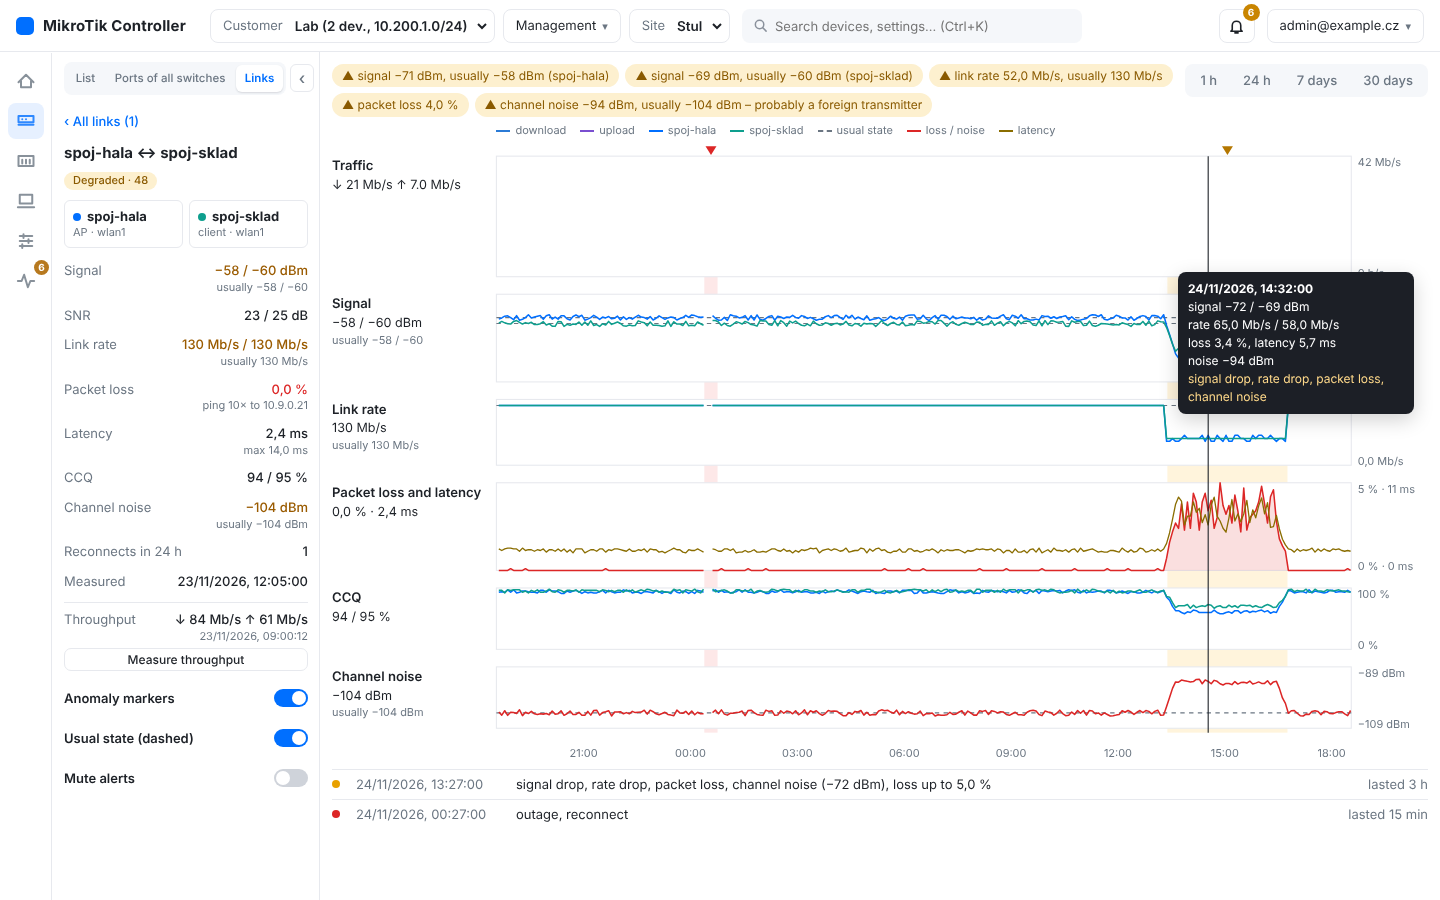
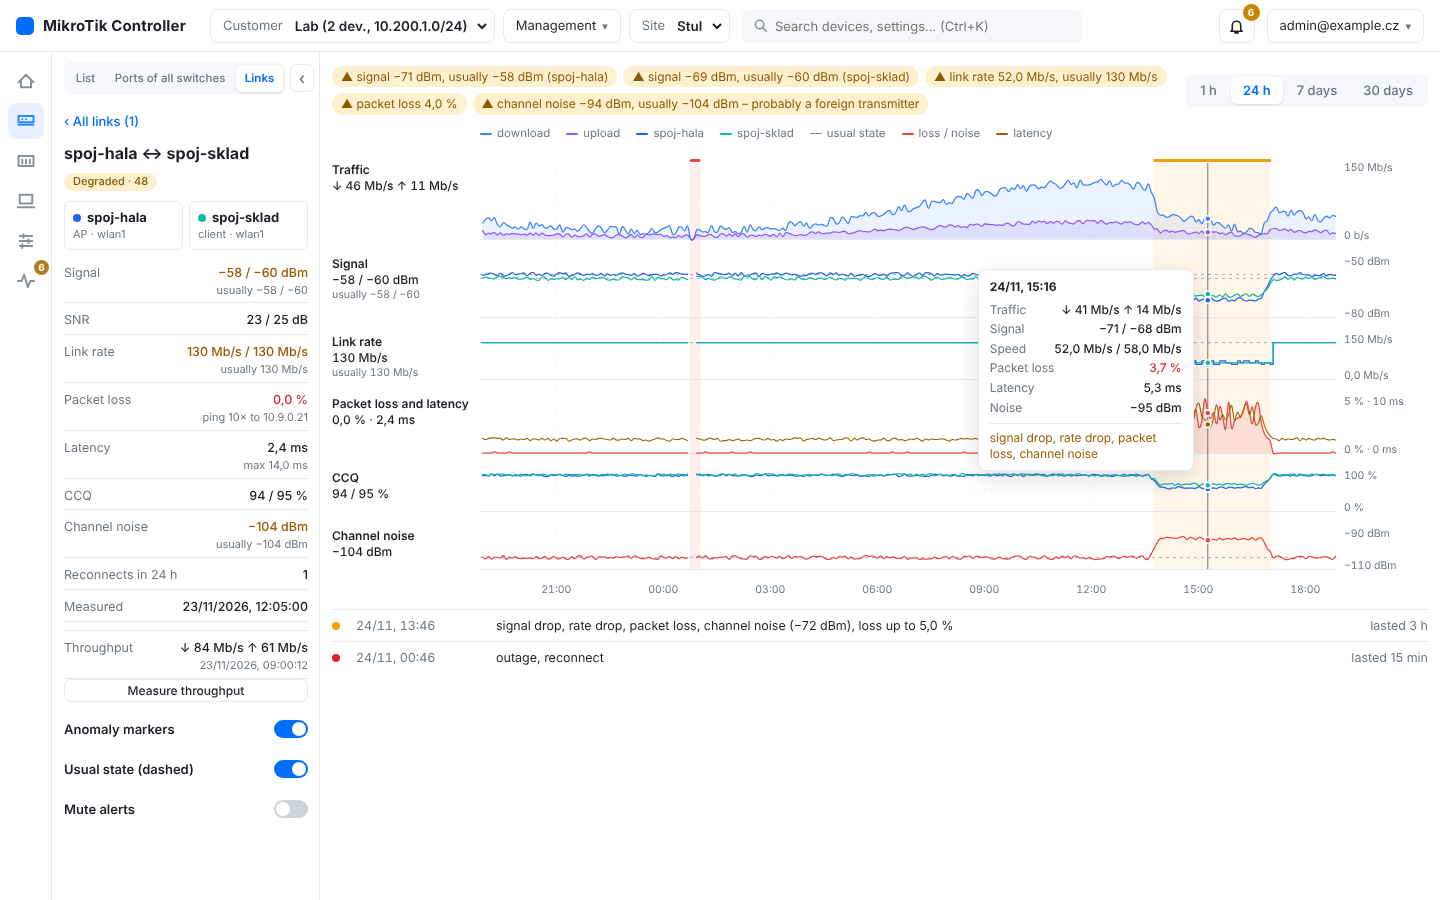
Karta spoje: jemnější graf
Graf se kreslí ve skutečných pixelech (písmo se nezvětšuje s oknem),
čáry jsou tenčí a vyhlazené, pásy nižší a bez rámečků s lehkými vodicími
linkami, rychlost spoje je schodová. Při najetí se na křivkách ukážou
body a přehledná tabulka hodnot okamžiku včetně provozu. Kulatá maxima os,
kratší formát času, zvýrazněné zvolené období.

Claude-Session: https://claude.ai/code/session_01E2RYn2SpBuXroVWZS43SoD

diff --git a/src/mtcontroller/web/static/app.js b/src/mtcontroller/web/static/app.js
@@ -4304,7 +4304,7 @@ function renderLinks() {
   for (const w of d.why || []) chips.appendChild(el("span", "▲ " + wlWhy(w), "wl-chip " + (w.code === "down" || (w.code === "loss" && w.now >= 10) ? "bad" : "warn")));
   if (!(d.why || []).length && d.state === "ok") chips.appendChild(el("span", __("Spoj je ve svém normálu."), "muted"));
   for (const [h, t] of [[1, "1 h"], [24, "24 h"], [168, __("7 dní")], [720, __("30 dní")]]) {
-    const b = el("button", t, wl.hours === h ? "on" : ""); b.type = "button"; b.setAttribute("aria-pressed", String(wl.hours === h));
+    const b = el("button", t, wl.hours === h ? "active" : ""); b.type = "button"; b.setAttribute("aria-pressed", String(wl.hours === h));
     b.addEventListener("click", () => { wl.hours = h; loadLink(); }); seg.appendChild(b);
   }
   top.append(chips, seg); main.appendChild(top);
@@ -4320,7 +4320,7 @@ function renderLinks() {
     for (const e of eps.slice(0, 12)) {
       const r = el("div", null, "wl-ep"), bad = e.codes.includes("down") || (e.worst.loss || 0) >= 10;
       const mins = Math.round((new Date(e.to) - new Date(e.from)) / 60000) + Math.round(d.bucket / 60);
-      r.append(el("i", "", "wl-dot " + (bad ? "bad" : "warn")), el("span", new Date(e.from).toLocaleString(LOCALE), "muted wl-ep-t"),
+      r.append(el("i", "", "wl-dot " + (bad ? "bad" : "warn")), el("span", new Date(e.from).toLocaleString(LOCALE, { day: "numeric", month: "numeric", hour: "2-digit", minute: "2-digit" }), "muted wl-ep-t"),
                el("span", e.codes.map((c) => WL_CODE[c] || c).join(", ") + (e.worst.signal != null && e.codes.includes("signal") ? ` (${wlN(e.worst.signal, "dBm")})` : "") + (e.worst.loss ? `, ${__("ztráta až")} ${wlN(e.worst.loss, "%", 1)}` : "")),
                el("span", mins >= 120 ? __`trvalo ${Math.round(mins / 60)} h` : __`trvalo ${mins} min`, "muted"));
       list.appendChild(r);
@@ -4367,103 +4367,137 @@ function wlBw(side, d) {
   }
 }
 
-// graf spoje: pásy se společnou časovou osou; odchylky podbarvené přes všechny pásy
+// graf spoje: pásy se společnou časovou osou; odchylky podbarvené přes všechny pásy.
+// Kreslí se v pixelech skutečné šířky (písmo se nezvětšuje s oknem), křivky jsou vyhlazené.
+function wlSmooth(run) {
+  // Catmull-Rom → Bézier s mírným napětím; u 2 bodů úsečka
+  if (run.length < 3) return run.map(([x, y], i) => (i ? "L" : "M") + x.toFixed(1) + " " + y.toFixed(1)).join("");
+  let d = `M${run[0][0].toFixed(1)} ${run[0][1].toFixed(1)}`;
+  for (let i = 0; i < run.length - 1; i++) {
+    const p0 = run[Math.max(0, i - 1)], p1 = run[i], p2 = run[i + 1], p3 = run[Math.min(run.length - 1, i + 2)], k = 0.18;
+    d += `C${(p1[0] + (p2[0] - p0[0]) * k).toFixed(1)} ${(p1[1] + (p2[1] - p0[1]) * k).toFixed(1)} ${(p2[0] - (p3[0] - p1[0]) * k).toFixed(1)} ${(p2[1] - (p3[1] - p1[1]) * k).toFixed(1)} ${p2[0].toFixed(1)} ${p2[1].toFixed(1)}`;
+  }
+  return d;
+}
 function wlChart(box, d, o) {
   if (typeof document.createElementNS !== "function") return;
-  const pts = d.points, u = d.usual || {}, X0 = 150, X1 = 930, W = 1000;
+  const pts = d.points, u = d.usual || {}, now = d.now || {};
+  const W = Math.max(640, Math.round(box.clientWidth || 1000)), X0 = 148, X1 = W - 92;
   const t1 = Date.now(), t0 = t1 - d.hours * 3600e3, gapMs = d.bucket * 2500;
   const X = (t) => X0 + (X1 - X0) * Math.min(1, Math.max(0, (new Date(t).getTime() - t0) / (t1 - t0)));
   const any = (k) => pts.some((p) => p[k] != null);
+  const nice = (v) => { const m = Math.pow(10, Math.floor(Math.log10(v || 1))), f = v / m; return (f <= 1 ? 1 : f <= 1.5 ? 1.5 : f <= 2 ? 2 : f <= 3 ? 3 : f <= 5 ? 5 : f <= 7.5 ? 7.5 : 10) * m; };
   const bands = [];
   const tr = wl.traffic || [];
-  if (tr.length > 1) bands.push({ title: __("Provoz"), h: 110, now: `↓ ${fmtBps((tr[tr.length - 1] || {}).rx || 0)}  ↑ ${fmtBps((tr[tr.length - 1] || {}).tx || 0)}`,
-    lo: 0, hi: Math.max(1e6, ...tr.map((x) => Math.max(x.rx || 0, x.tx || 0))), fmt: (v) => fmtBps(v),
+  if (tr.length > 1) bands.push({ title: __("Provoz"), h: 76, now: `↓ ${fmtBps((tr[tr.length - 1] || {}).rx || 0)}   ↑ ${fmtBps((tr[tr.length - 1] || {}).tx || 0)}`,
+    lo: 0, hi: nice(Math.max(1e6, ...tr.map((x) => Math.max(x.rx || 0, x.tx || 0)))), fmt: (v) => fmtBps(v),
     series: [{ pts: tr, k: "rx", cls: "rx", area: true }, { pts: tr, k: "tx", cls: "tx", area: true }] });
   const sig = pts.flatMap((p) => [p.signal_a, p.signal_b]).filter((v) => v != null);
-  if (sig.length) bands.push({ title: __("Signál"), h: 80, now: wlPair((d.now || {}).signal_a, (d.now || {}).signal_b, "dBm"), sub: u.signal_a != null ? __`obvykle ${wlPair(u.signal_a, u.signal_b)}` : "",
-    lo: Math.min(-80, Math.floor(Math.min(...sig) / 5) * 5 - 5), hi: Math.max(-50, Math.ceil(Math.max(...sig) / 5) * 5 + 5), fmt: (v) => wlN(v, "dBm"),
+  if (sig.length) bands.push({ title: __("Signál"), h: 60, now: wlPair(now.signal_a, now.signal_b, "dBm"), sub: u.signal_a != null ? __`obvykle ${wlPair(u.signal_a, u.signal_b)}` : "",
+    lo: Math.min(-80, Math.floor(Math.min(...sig) / 10) * 10), hi: Math.max(-50, Math.ceil(Math.max(...sig) / 10) * 10), fmt: (v) => wlN(v, "dBm"),
     usual: o.usual ? [u.signal_a, u.signal_b] : [], series: [{ pts, k: "signal_a", cls: "a" }, { pts, k: "signal_b", cls: "b" }] });
   const rates = pts.flatMap((p) => [p.rate_ab, p.rate_ba]).filter((v) => v != null);
-  if (rates.length) bands.push({ title: __("Rychlost spoje"), h: 60, now: wlMb((d.now || {}).rate_ab), sub: u.rate_ab != null ? __`obvykle ${wlMb(u.rate_ab)}` : "",
-    lo: 0, hi: Math.max(...rates) * 1.1, fmt: (v) => wlMb(v), usual: o.usual ? [u.rate_ab] : [], series: [{ pts, k: "rate_ab", cls: "a" }, { pts, k: "rate_ba", cls: "b" }] });
+  if (rates.length) bands.push({ title: __("Rychlost spoje"), h: 44, now: wlMb(now.rate_ab), sub: u.rate_ab != null ? __`obvykle ${wlMb(u.rate_ab)}` : "",
+    lo: 0, hi: nice(Math.max(...rates)), fmt: (v) => wlMb(v), usual: o.usual ? [u.rate_ab] : [], series: [{ pts, k: "rate_ab", cls: "a", step: true }, { pts, k: "rate_ba", cls: "b", step: true }] });
   if (any("loss") || any("rtt_avg")) {
-    const lmax = Math.max(5, ...pts.map((p) => p.loss || 0)), rmax = Math.max(10, ...pts.map((p) => p.rtt_avg || 0)) * 1.1;
-    bands.push({ title: __("Ztrátovost a odezva"), h: 80, now: `${wlN((d.now || {}).loss, "%", 1)} · ${wlN((d.now || {}).rtt_avg, "ms", 1)}`, lo: 0, hi: lmax,
+    const lmax = nice(Math.max(5, ...pts.map((p) => p.loss || 0))), rmax = nice(Math.max(10, ...pts.map((p) => p.rtt_avg || 0)));
+    bands.push({ title: __("Ztrátovost a odezva"), h: 56, now: `${wlN(now.loss, "%", 1)} · ${wlN(now.rtt_avg, "ms", 1)}`, lo: 0, hi: lmax,
       fmt: (v) => `${wlN(v, "%")} · ${wlN(v / lmax * rmax, "ms")}`, series: [{ pts, k: "loss", cls: "loss", area: true }, { pts, k: "rtt_avg", cls: "rtt", lo: 0, hi: rmax }] });
   }
-  if (any("ccq_a") || any("ccq_b")) bands.push({ title: d.kind === "w60g" ? __("Kvalita přenosu") : "CCQ", h: 56, now: wlPair((d.now || {}).ccq_a, (d.now || {}).ccq_b, "%"), lo: 0, hi: 100, fmt: (v) => wlN(v, "%"),
+  if (any("ccq_a") || any("ccq_b")) bands.push({ title: d.kind === "w60g" ? __("Kvalita přenosu") : "CCQ", h: 40, now: wlPair(now.ccq_a, now.ccq_b, "%"), lo: 0, hi: 100, fmt: (v) => wlN(v, "%"),
     series: [{ pts, k: "ccq_a", cls: "a" }, { pts, k: "ccq_b", cls: "b" }] });
   if (any("noise")) { const ns = pts.map((p) => p.noise).filter((v) => v != null);
-    bands.push({ title: __("Šum na kanálu"), h: 56, now: wlN((d.now || {}).noise, "dBm"), sub: u.noise != null ? __`obvykle ${wlN(u.noise, "dBm")}` : "", lo: Math.min(...ns) - 4, hi: Math.max(...ns) + 4,
+    bands.push({ title: __("Šum na kanálu"), h: 40, now: wlN(now.noise, "dBm"), sub: u.noise != null ? __`obvykle ${wlN(u.noise, "dBm")}` : "", lo: Math.floor((Math.min(...ns) - 3) / 5) * 5, hi: Math.ceil((Math.max(...ns) + 3) / 5) * 5,
       fmt: (v) => wlN(v, "dBm"), usual: o.usual ? [u.noise] : [], series: [{ pts, k: "noise", cls: "loss" }] }); }
-  let y = 12; for (const b of bands) { b.y = y; y += b.h + 16; }
-  const H = y + 14;
-  const svg = svgEl("svg", { viewBox: `0 0 ${W} ${H}`, class: "wl-svg", role: "img", "aria-label": __`Průběh spoje ${d.name}` });
+  let y = 14; for (const b of bands) { b.y = y; y += b.h + 18; }
+  const H = y + 8, bottom = y - 18;
+  const svg = svgEl("svg", { viewBox: `0 0 ${W} ${H}`, width: W, height: H, class: "wl-svg", role: "img", "aria-label": __`Průběh spoje ${d.name}` });
+  // svislé vodicí čáry času (jemné), popisky dole
+  const step = d.hours <= 1 ? 600e3 : d.hours <= 24 ? 3 * 3600e3 : d.hours <= 168 ? 86400e3 : 5 * 86400e3;
+  for (let t = Math.ceil(t0 / step) * step; t <= t1; t += step) {
+    const dt = new Date(t), x = X(t).toFixed(1), lab = d.hours <= 24 ? dt.toLocaleTimeString(LOCALE, { hour: "2-digit", minute: "2-digit" }) : dt.toLocaleDateString(LOCALE, { day: "numeric", month: "numeric" });
+    svg.appendChild(svgEl("line", { x1: x, x2: x, y1: 14, y2: bottom, class: "wl-grid" }));
+    svg.appendChild(svgEl("text", { x, y: H - 2, class: "wl-ax mid" }, lab));
+  }
   if (o.marks) for (const e of d.episodes || []) {
-    const bad = e.codes.includes("down") || (e.worst.loss || 0) >= 10, xa = X(e.from) - 2, xb = X(new Date(e.to).getTime() + d.bucket * 1000) + 2;
-    svg.appendChild(svgEl("rect", { x: xa.toFixed(1), y: 12, width: Math.max(4, xb - xa).toFixed(1), height: H - 38, class: "wl-ep-bg " + (bad ? "bad" : "warn") }));
-    svg.appendChild(svgEl("path", { d: `M${((xa + xb) / 2).toFixed(1)} 11 l-5 -8 h10 z`, class: "wl-ep-mark " + (bad ? "bad" : "warn") }));
+    const bad = e.codes.includes("down") || (e.worst.loss || 0) >= 10, xa = X(e.from) - 1, xb = X(new Date(e.to).getTime() + d.bucket * 1000) + 1;
+    svg.appendChild(svgEl("rect", { x: xa.toFixed(1), y: 14, width: Math.max(3, xb - xa).toFixed(1), height: bottom - 14, rx: 2, class: "wl-ep-bg " + (bad ? "bad" : "warn") }));
+    svg.appendChild(svgEl("rect", { x: xa.toFixed(1), y: 10, width: Math.max(3, xb - xa).toFixed(1), height: 3, rx: 1.5, class: "wl-ep-mark " + (bad ? "bad" : "warn") }));
   }
   for (const b of bands) {
-    svg.appendChild(svgEl("rect", { x: X0, y: b.y, width: X1 - X0, height: b.h, class: "wl-band" }));
-    svg.appendChild(svgEl("text", { x: 0, y: b.y + 13, class: "wl-bt" }, b.title));
-    svg.appendChild(svgEl("text", { x: 0, y: b.y + 30, class: "wl-bn" }, b.now));
-    if (b.sub) svg.appendChild(svgEl("text", { x: 0, y: b.y + 45, class: "wl-bs" }, b.sub));
-    svg.appendChild(svgEl("text", { x: X1 + 6, y: b.y + 9, class: "wl-bs" }, b.fmt(b.hi)));
-    svg.appendChild(svgEl("text", { x: X1 + 6, y: b.y + b.h, class: "wl-bs" }, b.fmt(b.lo)));
-    const Y = (v, lo = b.lo, hi = b.hi) => b.y + b.h - Math.min(1, Math.max(0, (v - lo) / ((hi - lo) || 1))) * b.h;
+    const mid = b.y + b.h / 2;
+    svg.appendChild(svgEl("line", { x1: X0, x2: X1, y1: b.y + b.h + 0.5, y2: b.y + b.h + 0.5, class: "wl-base" }));
+    svg.appendChild(svgEl("line", { x1: X0, x2: X1, y1: mid, y2: mid, class: "wl-grid" }));
+    svg.appendChild(svgEl("text", { x: 0, y: b.y + 11, class: "wl-bt" }, b.title));
+    svg.appendChild(svgEl("text", { x: 0, y: b.y + 27, class: "wl-bn" }, b.now));
+    if (b.sub && b.h >= 44) svg.appendChild(svgEl("text", { x: 0, y: b.y + 41, class: "wl-ax" }, b.sub));
+    svg.appendChild(svgEl("text", { x: X1 + 8, y: b.y + 8, class: "wl-ax" }, b.fmt(b.hi)));
+    svg.appendChild(svgEl("text", { x: X1 + 8, y: b.y + b.h, class: "wl-ax" }, b.fmt(b.lo)));
+    const Y = (v, lo = b.lo, hi = b.hi) => b.y + b.h - Math.min(1, Math.max(0, (v - lo) / ((hi - lo) || 1))) * (b.h - 2);
     for (const v of b.usual || []) if (v != null) svg.appendChild(svgEl("line", { x1: X0, x2: X1, y1: Y(v).toFixed(1), y2: Y(v).toFixed(1), class: "wl-usual" }));
     for (const s of b.series) {
+      s.Y = (v) => Y(v, s.lo, s.hi);
       // souvislé úseky: mezera v měření nebo výpadek čáru přeruší
       let run = [], last = 0;
       const flush = () => {
         if (run.length > 1) {
-          const line = run.map(([x, yy]) => `${x.toFixed(1)},${yy.toFixed(1)}`).join(" ");
-          if (s.area) svg.appendChild(svgEl("polygon", { points: `${run[0][0].toFixed(1)},${b.y + b.h} ${line} ${run[run.length - 1][0].toFixed(1)},${b.y + b.h}`, class: "wl-a " + s.cls }));
-          svg.appendChild(svgEl("polyline", { points: line, class: "wl-s " + s.cls }));
-        } else if (run.length === 1) svg.appendChild(svgEl("circle", { cx: run[0][0].toFixed(1), cy: run[0][1].toFixed(1), r: 1.6, class: "wl-p " + s.cls }));
+          const line = s.step ? run.map(([x, yy], i) => (i ? `H${x.toFixed(1)}V${yy.toFixed(1)}` : `M${x.toFixed(1)} ${yy.toFixed(1)}`)).join("") : wlSmooth(run);
+          if (s.area) svg.appendChild(svgEl("path", { d: `${line}L${run[run.length - 1][0].toFixed(1)} ${b.y + b.h}L${run[0][0].toFixed(1)} ${b.y + b.h}Z`, class: "wl-a " + s.cls }));
+          svg.appendChild(svgEl("path", { d: line, class: "wl-s " + s.cls }));
+        } else if (run.length === 1) svg.appendChild(svgEl("circle", { cx: run[0][0].toFixed(1), cy: run[0][1].toFixed(1), r: 1.5, class: "wl-p " + s.cls }));
         run = [];
       };
       for (const p of s.pts) {
         const t = new Date(p.t).getTime(), v = p[s.k];
         if (t < t0) continue;
         if (v == null || (last && t - last > gapMs)) flush();
-        if (v != null) { run.push([X(p.t), Y(v, s.lo, s.hi)]); last = t; }
+        if (v != null) { run.push([X(p.t), s.Y(v)]); last = t; }
       }
       flush();
     }
   }
-  const step = d.hours <= 1 ? 600e3 : d.hours <= 24 ? 3 * 3600e3 : d.hours <= 168 ? 86400e3 : 5 * 86400e3;
-  for (let t = Math.ceil(t0 / step) * step; t <= t1; t += step) {
-    const dt = new Date(t), lab = d.hours <= 24 ? dt.toLocaleTimeString(LOCALE, { hour: "2-digit", minute: "2-digit" }) : dt.toLocaleDateString(LOCALE, { day: "numeric", month: "numeric" });
-    svg.appendChild(svgEl("text", { x: X(t).toFixed(1), y: H - 4, class: "wl-bs mid" }, lab));
-  }
-  const cur = svgEl("line", { x1: 0, x2: 0, y1: 12, y2: H - 26, class: "wl-cur", visibility: "hidden" }); svg.appendChild(cur);
+  const cur = svgEl("line", { x1: 0, x2: 0, y1: 14, y2: bottom, class: "wl-cur", visibility: "hidden" }); svg.appendChild(cur);
+  const dots = svgEl("g", { visibility: "hidden" }); svg.appendChild(dots);
   box.appendChild(svg);
   const tip = el("div", null, "wl-tip"); tip.hidden = true; box.appendChild(tip);
+  const nearest = (arr, t) => { let best = null; for (const p of arr) if (!best || Math.abs(new Date(p.t) - t) < Math.abs(new Date(best.t) - t)) best = p; return best; };
   svg.addEventListener("mousemove", (ev) => {
     const r = svg.getBoundingClientRect(), x = (ev.clientX - r.left) / r.width * W;
-    if (x < X0 || x > X1) { tip.hidden = true; cur.setAttribute("visibility", "hidden"); return; }
-    const t = t0 + (x - X0) / (X1 - X0) * (t1 - t0);
-    let best = null; for (const p of pts) if (!best || Math.abs(new Date(p.t) - t) < Math.abs(new Date(best.t) - t)) best = p;
+    if (x < X0 || x > X1) { tip.hidden = true; cur.setAttribute("visibility", "hidden"); dots.setAttribute("visibility", "hidden"); return; }
+    const t = t0 + (x - X0) / (X1 - X0) * (t1 - t0), best = nearest(pts, t);
     if (!best) return;
     const bx = X(best.t); cur.setAttribute("x1", bx); cur.setAttribute("x2", bx); cur.setAttribute("visibility", "visible");
+    // tečky na křivkách v místě kurzoru
+    dots.textContent = ""; dots.setAttribute("visibility", "visible");
+    for (const b of bands) for (const s of b.series) {
+      const p = s.pts === pts ? best : nearest(s.pts, new Date(best.t).getTime());
+      if (p && p[s.k] != null) dots.appendChild(svgEl("circle", { cx: X(p.t).toFixed(1), cy: s.Y(p[s.k]).toFixed(1), r: 3, class: "wl-dotc " + s.cls }));
+    }
     tip.textContent = "";
-    tip.appendChild(el("strong", new Date(best.t).toLocaleString(LOCALE)));
-    const row = (txt) => tip.appendChild(el("div", txt));
-    if (!best.up) row(__("spoj dole"));
+    tip.appendChild(el("strong", new Date(best.t).toLocaleString(LOCALE, { day: "numeric", month: "numeric", hour: "2-digit", minute: "2-digit" })));
+    const row = (k, v, cls) => { const rr = el("div", null, "wl-tip-r"); rr.append(el("span", k), el("b", v, cls || "")); tip.appendChild(rr); };
+    if (!best.up) row(__("Spoj"), __("dole"), "bad");
     else {
-      row(__`signál ${wlPair(best.signal_a, best.signal_b, "dBm")}`); row(__`rychlost ${wlMb(best.rate_ab)} / ${wlMb(best.rate_ba)}`);
-      if (best.loss != null) row(__`ztrátovost ${wlN(best.loss, "%", 1)}, odezva ${wlN(best.rtt_avg, "ms", 1)}`);
-      if (best.noise != null) row(__`šum ${wlN(best.noise, "dBm")}`);
-      if (best.reconnect) row(__("přepojení"));
+      const tp = tr.length ? nearest(tr, new Date(best.t).getTime()) : null;
+      if (tp) row(__("Provoz"), `↓ ${fmtBps(tp.rx || 0)}  ↑ ${fmtBps(tp.tx || 0)}`);
+      row(__("Signál"), wlPair(best.signal_a, best.signal_b, "dBm"));
+      row(__("Rychlost"), `${wlMb(best.rate_ab)} / ${wlMb(best.rate_ba)}`);
+      if (best.loss != null) row(__("Ztrátovost"), wlN(best.loss, "%", 1), best.loss >= 2 ? "bad" : "");
+      if (best.rtt_avg != null) row(__("Odezva"), wlN(best.rtt_avg, "ms", 1));
+      if (best.noise != null) row(__("Šum"), wlN(best.noise, "dBm"));
     }
     const devs = (d.episodes || []).find((e) => new Date(e.from) <= new Date(best.t) && new Date(best.t) <= new Date(e.to));
-    if (devs) tip.appendChild(el("div", devs.codes.map((c) => WL_CODE[c] || c).join(", "), "wl-tip-w"));
+    if (devs || best.reconnect) tip.appendChild(el("div", (devs ? devs.codes : ["reconnect"]).map((c) => WL_CODE[c] || c).join(", "), "wl-tip-w"));
     tip.hidden = false;
-    tip.setAttribute("style", `left: ${Math.min(r.width - 250, Math.max(0, (bx / W) * r.width + 12))}px; top: ${Math.max(0, ev.clientY - r.top - 20)}px`);
+    const left = (bx / W) * r.width + 14;
+    tip.setAttribute("style", `left: ${left + 216 > r.width ? left - 244 : left}px; top: ${Math.max(0, Math.min(r.height - 150, ev.clientY - r.top - 30))}px`);
   });
-  svg.addEventListener("mouseleave", () => { tip.hidden = true; cur.setAttribute("visibility", "hidden"); });
+  svg.addEventListener("mouseleave", () => { tip.hidden = true; cur.setAttribute("visibility", "hidden"); dots.setAttribute("visibility", "hidden"); });
+}
+// při změně šířky okna se graf překreslí na novou šířku (písmo zůstává stejně velké)
+if (typeof window !== "undefined" && typeof window.addEventListener === "function") {
+  let wlResize = 0;
+  window.addEventListener("resize", () => { clearTimeout(wlResize); wlResize = setTimeout(() => { if (wl.sel && wl.data && !$("links-wrap").hidden) renderLinks(); }, 150); });
 }
 
 // --- sekce Porty: schéma portů s připojenými zařízeními, filtry, přehled VLAN a provoz -------------------------

diff --git a/src/mtcontroller/web/static/style.css b/src/mtcontroller/web/static/style.css
@@ -1526,3 +1526,36 @@ header { z-index: 45; }
 #topo path.link.hit { stroke: transparent; stroke-width: 16; cursor: pointer; pointer-events: stroke; }
 #topo .wl-mark { font-size: 14px; font-weight: 700; text-anchor: middle; fill: #17a55a; pointer-events: none; }
 #topo .wl-mark.s-degraded { fill: #b47700; } #topo .wl-mark.s-bad, #topo .wl-mark.s-down { fill: #dc2626; } #topo .wl-mark.s-unknown { fill: var(--muted); }
+
+/* --- karta spoje: jemnější graf (skutečné pixely, tenké vyhlazené čáry, lehké vodicí linky, menší písmo) --- */
+.wl-svg { width: 100%; height: auto; font-variant-numeric: tabular-nums; }
+.wl-bt { font-size: 12px; font-weight: 600; fill: var(--text); }
+.wl-bn { font-size: 12px; font-weight: 500; fill: var(--text); }
+.wl-ax { font-size: 10.5px; fill: var(--muted); } .wl-ax.mid { text-anchor: middle; }
+.wl-base { stroke: var(--line); stroke-width: 1; } .wl-grid { stroke: var(--line); stroke-width: 1; stroke-dasharray: 1 5; opacity: .9; }
+.wl-s { stroke-width: 1.25; stroke-linecap: round; stroke-linejoin: round; }
+.wl-s.rtt { stroke-width: 1.1; }
+.wl-a { fill-opacity: .10; } .wl-a.tx { fill-opacity: .12; } .wl-a.loss { fill-opacity: .12; }
+.wl-s.rx { stroke: #3b82f6; } .wl-a.rx { fill: #3b82f6; } .wl-s.tx { stroke: #8b5cf6; } .wl-a.tx { fill: #8b5cf6; }
+.wl-s.a { stroke: #2563eb; } .wl-s.b { stroke: #14b8a6; } .wl-p.b { fill: #14b8a6; } .wl-s.loss { stroke: #ef4444; } .wl-a.loss { fill: #ef4444; } .wl-s.rtt { stroke: #a16207; }
+.wl-usual { stroke: var(--muted); stroke-width: 1; stroke-dasharray: 3 4; opacity: .55; }
+.wl-ep-bg.warn { fill: #f59e0b; fill-opacity: .09; } .wl-ep-bg.bad { fill: #ef4444; fill-opacity: .09; }
+.wl-ep-mark.warn { fill: #f59e0b; } .wl-ep-mark.bad { fill: #ef4444; }
+.wl-cur { stroke: var(--muted); stroke-width: 1; }
+.wl-dotc { stroke: var(--card); stroke-width: 1.5; fill: #3b82f6; } .wl-dotc.tx { fill: #8b5cf6; } .wl-dotc.a { fill: #2563eb; } .wl-dotc.b { fill: #14b8a6; }
+.wl-dotc.loss { fill: #ef4444; } .wl-dotc.rtt { fill: #a16207; }
+.wl-legend { gap: 2px 16px; font-size: 11.5px; padding: 2px 0 8px 148px; }
+.wl-l { width: 12px; border-top-width: 2px; border-radius: 2px; }
+.wl-l.rx { border-color: #3b82f6; } .wl-l.tx { border-color: #8b5cf6; } .wl-l.a { border-color: #2563eb; } .wl-l.b { border-color: #14b8a6; } .wl-l.loss { border-color: #ef4444; } .wl-l.rtt { border-color: #a16207; }
+.wl-l.usual { border-top: 1px dashed var(--muted); }
+.wl-chips { font-size: 12px; } .wl-chip { padding: 2px 9px; }
+.wl-top { padding: 12px 0 8px; align-items: center; }
+.wl-tip { width: 216px; padding: 9px 11px; border-radius: 8px; background: var(--card); color: var(--text); border: 1px solid var(--line);
+  box-shadow: 0 8px 24px rgba(0, 0, 0, .12); font-size: 12px; line-height: 1.3; }
+.wl-tip strong { margin-bottom: 5px; font-size: 12px; }
+.wl-tip-r { display: flex; justify-content: space-between; gap: 10px; padding: 2px 0; } .wl-tip-r span { color: var(--muted); } .wl-tip-r b { font-weight: 500; } .wl-tip-r b.bad { color: #dc2626; }
+.wl-tip-w { margin-top: 6px; padding-top: 6px; border-top: 1px solid var(--line); color: #9a5b00; }
+.wl-eps { margin-top: 14px; } .wl-ep { min-height: 32px; font-size: 12.5px; } .wl-ep-t { width: 130px; font-variant-numeric: tabular-nums; }
+.wl-kv { font-size: 12.5px; padding: 5px 0; border-bottom: 1px solid var(--line); } .wl-kv small { margin-top: 1px; }
+.wl-title { font-size: 16px; }
+.wl-dot.b { background: #14b8a6; } .wl-dot { background: #2563eb; }
